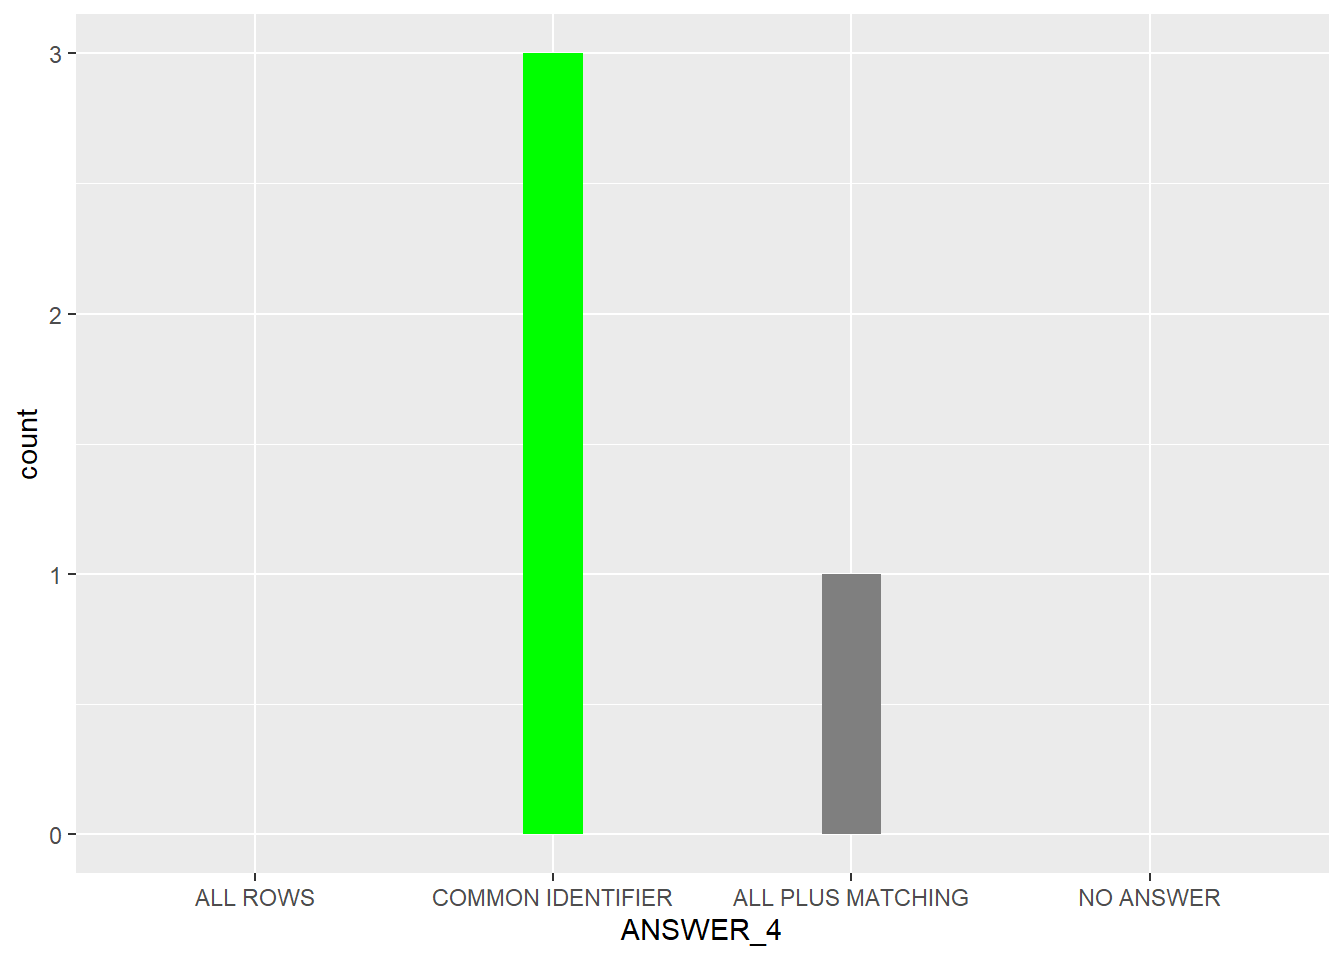
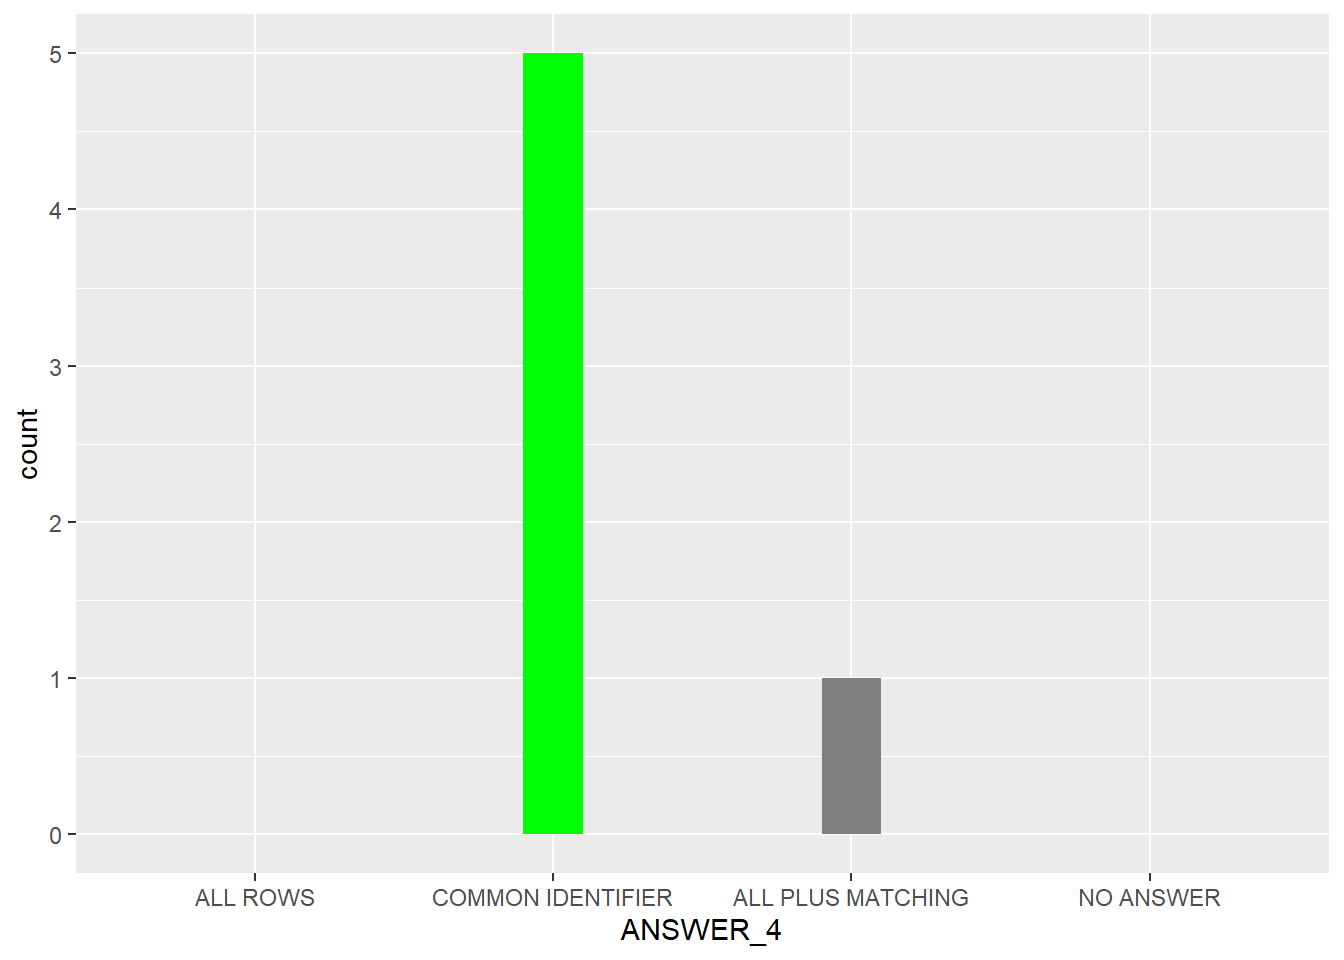
Added overall image

Changed region(s): [[0.5938, 0.5938, 0.6562, 0.7188]]

diff --git a/SQL_QUIZ/SQL_QUIZ_html.html b/SQL_QUIZ/SQL_QUIZ_html.html
@@ -94,11 +94,21 @@ pre > code.sourceCode > span > a:first-child::before { text-decoration: underlin
 
 </header>
 
+<section id="overall-results" class="level1">
+<h1>Overall Results</h1>
+<div class="quarto-figure quarto-figure-center">
+<figure class="figure">
+<p><img src="images/overall.jpg" class="img-fluid figure-img"></p>
+<figcaption class="figure-caption">Overall results</figcaption>
+</figure>
+</div>
+</section>
+<section id="import-data" class="level1">
+<h1>Import Data</h1>
 <div class="cell">
-<div class="sourceCode cell-code" id="cb1"><pre class="sourceCode r code-with-copy"><code class="sourceCode r"><span id="cb1-1"><a href="#cb1-1" aria-hidden="true" tabindex="-1"></a><span class="co">#read in data and clean it</span></span>
-<span id="cb1-2"><a href="#cb1-2" aria-hidden="true" tabindex="-1"></a>survey_df <span class="ot">&lt;-</span> <span class="fu">read.csv</span>(<span class="st">'Data/student_report.csv'</span>)</span>
-<span id="cb1-3"><a href="#cb1-3" aria-hidden="true" tabindex="-1"></a><span class="co">#remove personal columns</span></span>
-<span id="cb1-4"><a href="#cb1-4" aria-hidden="true" tabindex="-1"></a><span class="fu">colnames</span>(survey_df)</span></code><button title="Copy to Clipboard" class="code-copy-button"><i class="bi"></i></button></pre></div>
+<div class="sourceCode cell-code" id="cb1"><pre class="sourceCode r code-with-copy"><code class="sourceCode r"><span id="cb1-1"><a href="#cb1-1" aria-hidden="true" tabindex="-1"></a>survey_df <span class="ot">&lt;-</span> <span class="fu">read.csv</span>(<span class="st">'Data/student_report.csv'</span>)</span>
+<span id="cb1-2"><a href="#cb1-2" aria-hidden="true" tabindex="-1"></a></span>
+<span id="cb1-3"><a href="#cb1-3" aria-hidden="true" tabindex="-1"></a><span class="fu">colnames</span>(survey_df)</span></code><button title="Copy to Clipboard" class="code-copy-button"><i class="bi"></i></button></pre></div>
 <div class="cell-output cell-output-stdout">
 <pre><code> [1] "name"                                                                                                                                                      
  [2] "id"                                                                                                                                                        
@@ -123,10 +133,12 @@ pre > code.sourceCode > span > a:first-child::before { text-decoration: underlin
 [21] "n.incorrect"                                                                                                                                               
 [22] "score"                                                                                                                                                     </code></pre>
 </div>
-<div class="sourceCode cell-code" id="cb3"><pre class="sourceCode r code-with-copy"><code class="sourceCode r"><span id="cb3-1"><a href="#cb3-1" aria-hidden="true" tabindex="-1"></a>survey_df <span class="ot">&lt;-</span> survey_df[<span class="sc">-</span><span class="fu">c</span>(<span class="dv">1</span><span class="sc">:</span><span class="dv">7</span>)]</span></code><button title="Copy to Clipboard" class="code-copy-button"><i class="bi"></i></button></pre></div>
+<div class="sourceCode cell-code" id="cb3"><pre class="sourceCode r code-with-copy"><code class="sourceCode r"><span id="cb3-1"><a href="#cb3-1" aria-hidden="true" tabindex="-1"></a><span class="co">#dropping personal columns</span></span>
+<span id="cb3-2"><a href="#cb3-2" aria-hidden="true" tabindex="-1"></a>survey_df <span class="ot">&lt;-</span> survey_df[<span class="sc">-</span><span class="fu">c</span>(<span class="dv">1</span><span class="sc">:</span><span class="dv">7</span>)]</span></code><button title="Copy to Clipboard" class="code-copy-button"><i class="bi"></i></button></pre></div>
 </div>
-<section id="clean-dataset" class="level1">
-<h1>Clean Dataset</h1>
+</section>
+<section id="cleaning-column-names" class="level1">
+<h1>Cleaning Column Names</h1>
 <div class="cell">
 <div class="sourceCode cell-code" id="cb4"><pre class="sourceCode r code-with-copy"><code class="sourceCode r"><span id="cb4-1"><a href="#cb4-1" aria-hidden="true" tabindex="-1"></a><span class="fu">library</span>(dplyr)</span>
 <span id="cb4-2"><a href="#cb4-2" aria-hidden="true" tabindex="-1"></a>rep_let <span class="ot">=</span> <span class="fu">rep</span>(<span class="fu">c</span>(<span class="st">"ANSWER_"</span> , <span class="st">"POINTS_"</span>) , <span class="at">times=</span><span class="dv">6</span>)</span>
@@ -174,7 +186,7 @@ pre > code.sourceCode > span > a:first-child::before { text-decoration: underlin
 <h1>Question 2</h1>
 <section id="where-is-the-error-in-this-sql-statement" class="level2">
 <h2 class="anchored" data-anchor-id="where-is-the-error-in-this-sql-statement">Where is the error in this SQL statement?</h2>
-<p><em>SELECT record_company, band, album, COUNT(<em>) FROM albums GROUP BY record_company, band HAVING COUNT(</em>) &gt; 1</em></p>
+<p><em>SELECT record_company, band, album, COUNT() FROM albums GROUP BY record_company, band HAVING COUNT(</em>) *</p>
 <ul>
 <li>In the GROUP BY clause</li>
 <li>In the FROM clause</li>
@@ -260,7 +272,7 @@ pre > code.sourceCode > span > a:first-child::before { text-decoration: underlin
 <div class="sourceCode cell-code" id="cb11"><pre class="sourceCode r code-with-copy"><code class="sourceCode r"><span id="cb11-1"><a href="#cb11-1" aria-hidden="true" tabindex="-1"></a><span class="fu">library</span>(ggwordcloud)</span>
 <span id="cb11-2"><a href="#cb11-2" aria-hidden="true" tabindex="-1"></a><span class="fu">ggplot</span>(survey_df , <span class="fu">aes</span>(<span class="at">label =</span> ANSWER_6)) <span class="sc">+</span></span>
 <span id="cb11-3"><a href="#cb11-3" aria-hidden="true" tabindex="-1"></a>  <span class="fu">geom_text_wordcloud</span>() <span class="sc">+</span></span>
-<span id="cb11-4"><a href="#cb11-4" aria-hidden="true" tabindex="-1"></a>  <span class="fu">theme_minimal</span>()</span></code><button title="Copy to Clipboard" class="code-copy-button"><i class="bi"></i></button></pre></div>
+<span id="cb11-4"><a href="#cb11-4" aria-hidden="true" tabindex="-1"></a>  <span class="fu">theme_bw</span>()</span></code><button title="Copy to Clipboard" class="code-copy-button"><i class="bi"></i></button></pre></div>
 <div class="cell-output-display">
 <p><img src="SQL_QUIZ_html_files/figure-html/unnamed-chunk-8-1.png" class="img-fluid" width="672"></p>
 </div>
